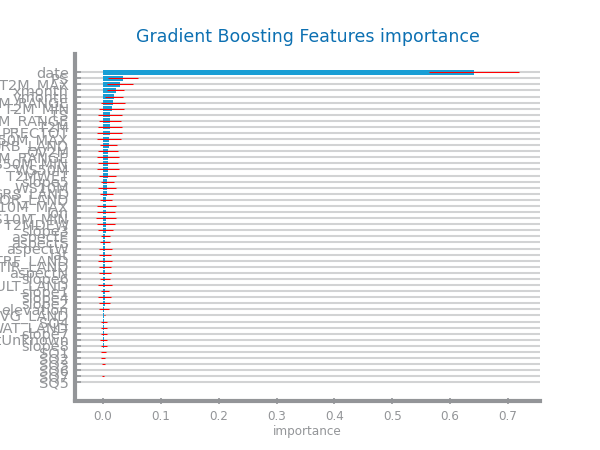
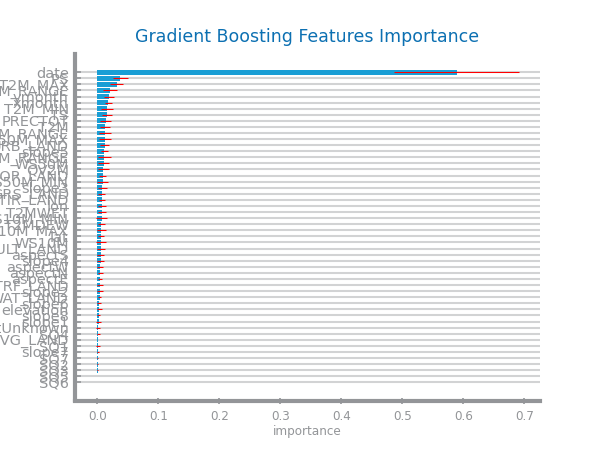
set2 grad boost mais gostoso

diff --git a/droughtDataset/lab5/gb.py b/droughtDataset/lab5/gb.py
@@ -21,9 +21,9 @@ test: DataFrame = read_csv(f'../Data/TrainTest/drought_prepared_test.csv')
 tstY: ndarray = test.pop(target).values
 tstX: ndarray = test.values
 
-n_estimators = [5, 10, 25, 50, 75, 100, 200, 300, 400]
-max_depths = [5, 10, 25]
-learning_rate = [.1, .5, .9]
+n_estimators = [5, 10, 25, 50, 75, 100, 200, 300, 400] # x in overfitting
+max_depths = [5, 10, 15, 25] # added 15
+learning_rate = [.1, .3, .5, .7, .9] # added .3, .7
 best = ('', 0, 0)
 last_best = 0
 best_model = None
@@ -60,9 +60,9 @@ best_model = None
 # savefig(f'images/gb/{file_tag}_gb_best.png')
 # show()
 
-#### importance of each variable in the global model
+# ### importance of each variable in the global model
 
-from numpy import std, argsort
+# from numpy import std, argsort
 
 # variables = train.columns
 # importances = best_model.feature_importances_
@@ -74,21 +74,22 @@ from numpy import std, argsort
 #     print(f'{f+1}. feature {elems[f]} ({importances[indices[f]]})')
 
 # figure()
-# horizontal_bar_chart(elems, importances[indices], stdevs[indices], title='Gradient Boosting Features importance', xlabel='importance', ylabel='variables')
+# horizontal_bar_chart(elems, importances[indices], stdevs[indices], title='Gradient Boosting Features Importance', xlabel='importance', ylabel='variables')
 # savefig(f'images/gb/{file_tag}_gb_ranking.png')
 
 #### overfitting
 
 from ds_charts import plot_overfitting_study
 
-lr = 0.7
-max_depth = 10
+lr = 0.1
+max_depth = 15 #
 eval_metric = accuracy_score
 y_tst_values = []
 y_trn_values = []
-# max_depth=d
+d=15 #
 for n in n_estimators:
-    gb = GradientBoostingClassifier(n_estimators=n, max_depth=25, learning_rate=lr)
+    print(n)
+    gb = GradientBoostingClassifier(n_estimators=n, max_depth=d, learning_rate=lr)
     gb.fit(trnX, trnY)
     prd_tst_Y = gb.predict(tstX)
     prd_trn_Y = gb.predict(trnX)
